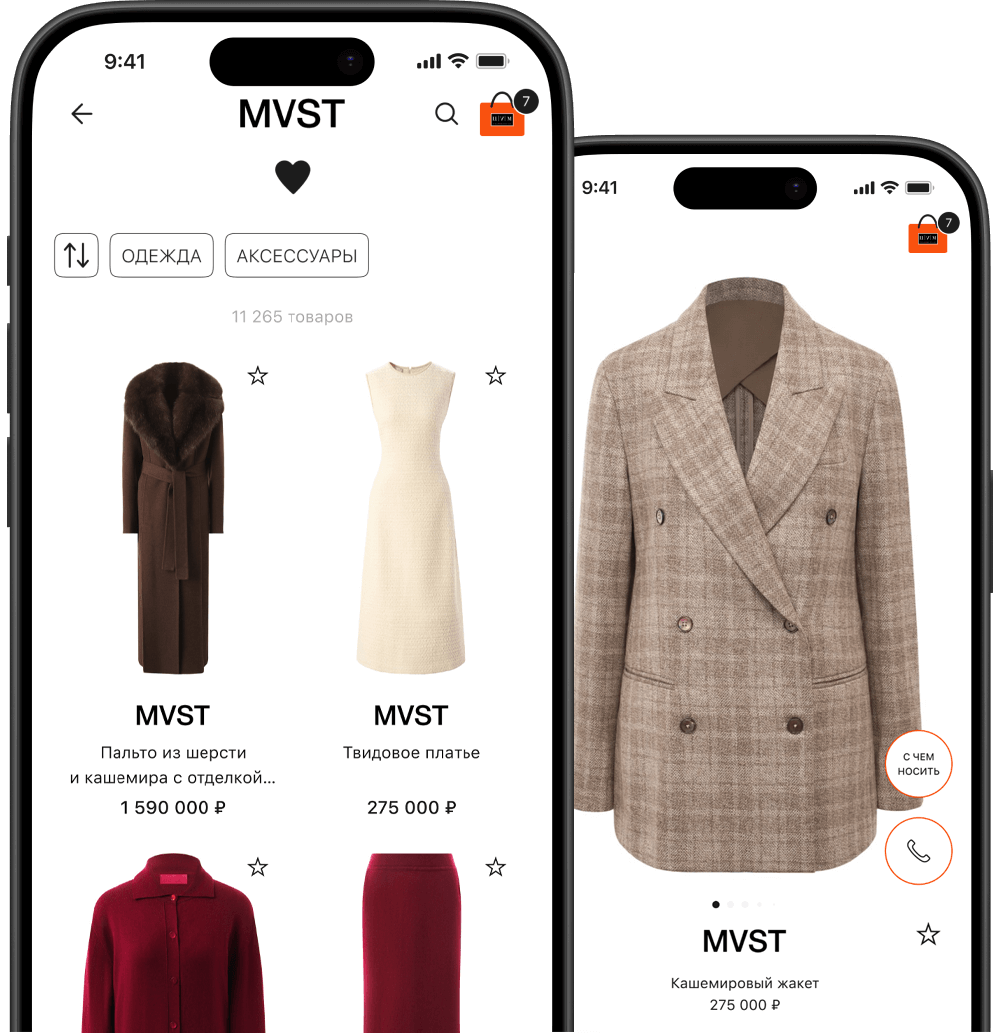
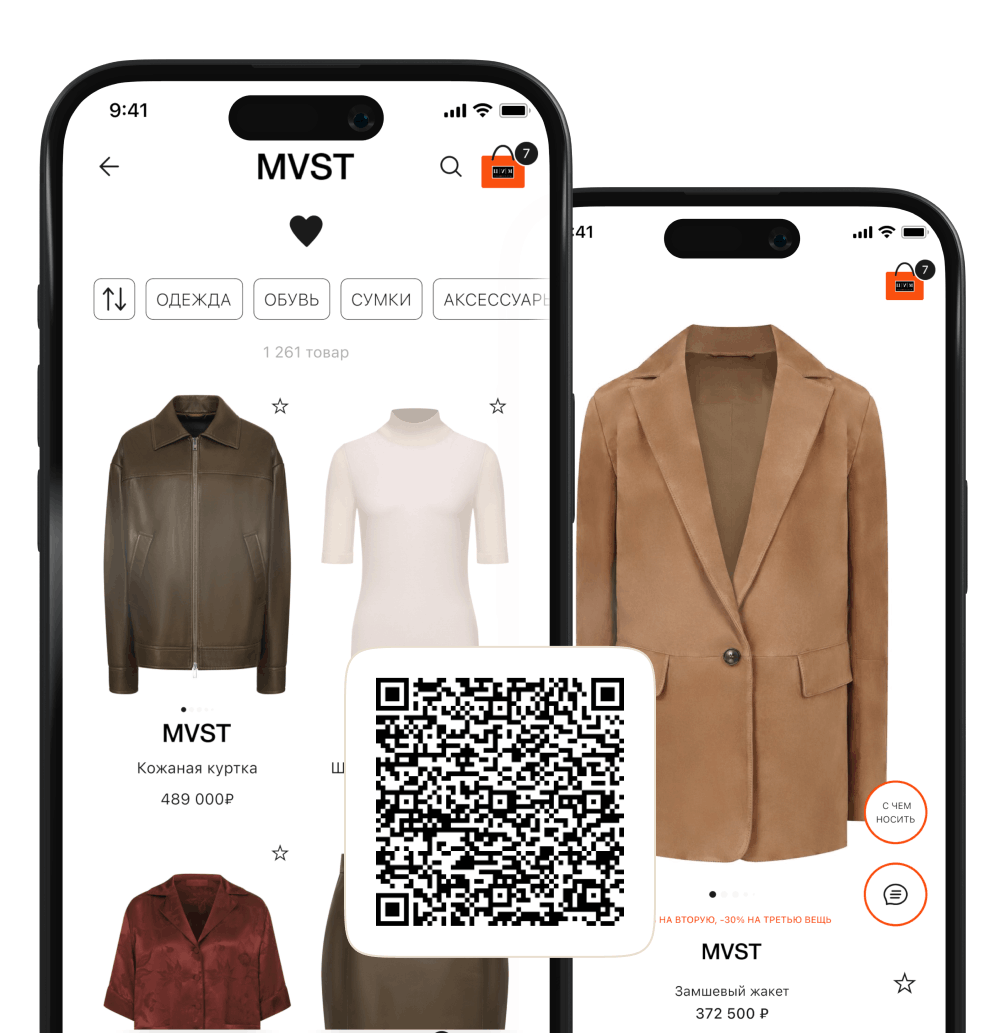
FRONTEND-7160: Поменять картинки внизу главной страницы сайта мвст

diff --git a/src/features/home/CallToBuy/CallToBuy.tsx b/src/features/home/CallToBuy/CallToBuy.tsx
@@ -1,14 +1,16 @@
 import Image from 'next/image';
-import { QRCodeSVG } from 'qrcode.react';
+// import { QRCodeSVG } from 'qrcode.react';
 
 import { InAppActions } from '@/shared/ui';
 
-import { DOWNLOAD_APP_LINK } from '@/constants/runtimeConfig';
+// import { DOWNLOAD_APP_LINK } from '@/constants/runtimeConfig';
 
-import { Typography } from '@/ui/index';
+import { Responsive, Typography } from '@/ui/index';
 
 // @ts-ignore
 import app from './MVST_desktop.png';
+// @ts-ignore
+import appMobile from './MVST_mobile.png';
 
 import st from './styles.module.scss';
 
@@ -20,15 +22,20 @@ export function CallToBuy() {
       </Typography>
 
       <div className={st.appWithQr}>
-        <Image src={app} alt="" quality={50} />
-        <QRCodeSVG
+        <Responsive.Desktop>
+          <Image src={app} alt="" quality={50} />
+        </Responsive.Desktop>
+        <Responsive.TabletAndBelow>
+          <Image src={appMobile} alt="" quality={50} />
+        </Responsive.TabletAndBelow>
+        {/* <QRCodeSVG
           value={DOWNLOAD_APP_LINK}
           className={st.qrCode}
           includeMargin={false}
           size={124 + 32}
           level="M"
           bgColor="#fff"
-        />
+        /> */}
       </div>
 
       <InAppActions downloadAppVisibility={false} className={st.inAppActions} />

diff --git a/src/features/home/CallToBuy/styles.module.scss b/src/features/home/CallToBuy/styles.module.scss
@@ -41,6 +41,10 @@
 .appWithQr {
   position: relative;
 
+  img {
+    mix-blend-mode: multiply;
+  }
+
   .qrCode {
     position: absolute;
     bottom: 40px;
